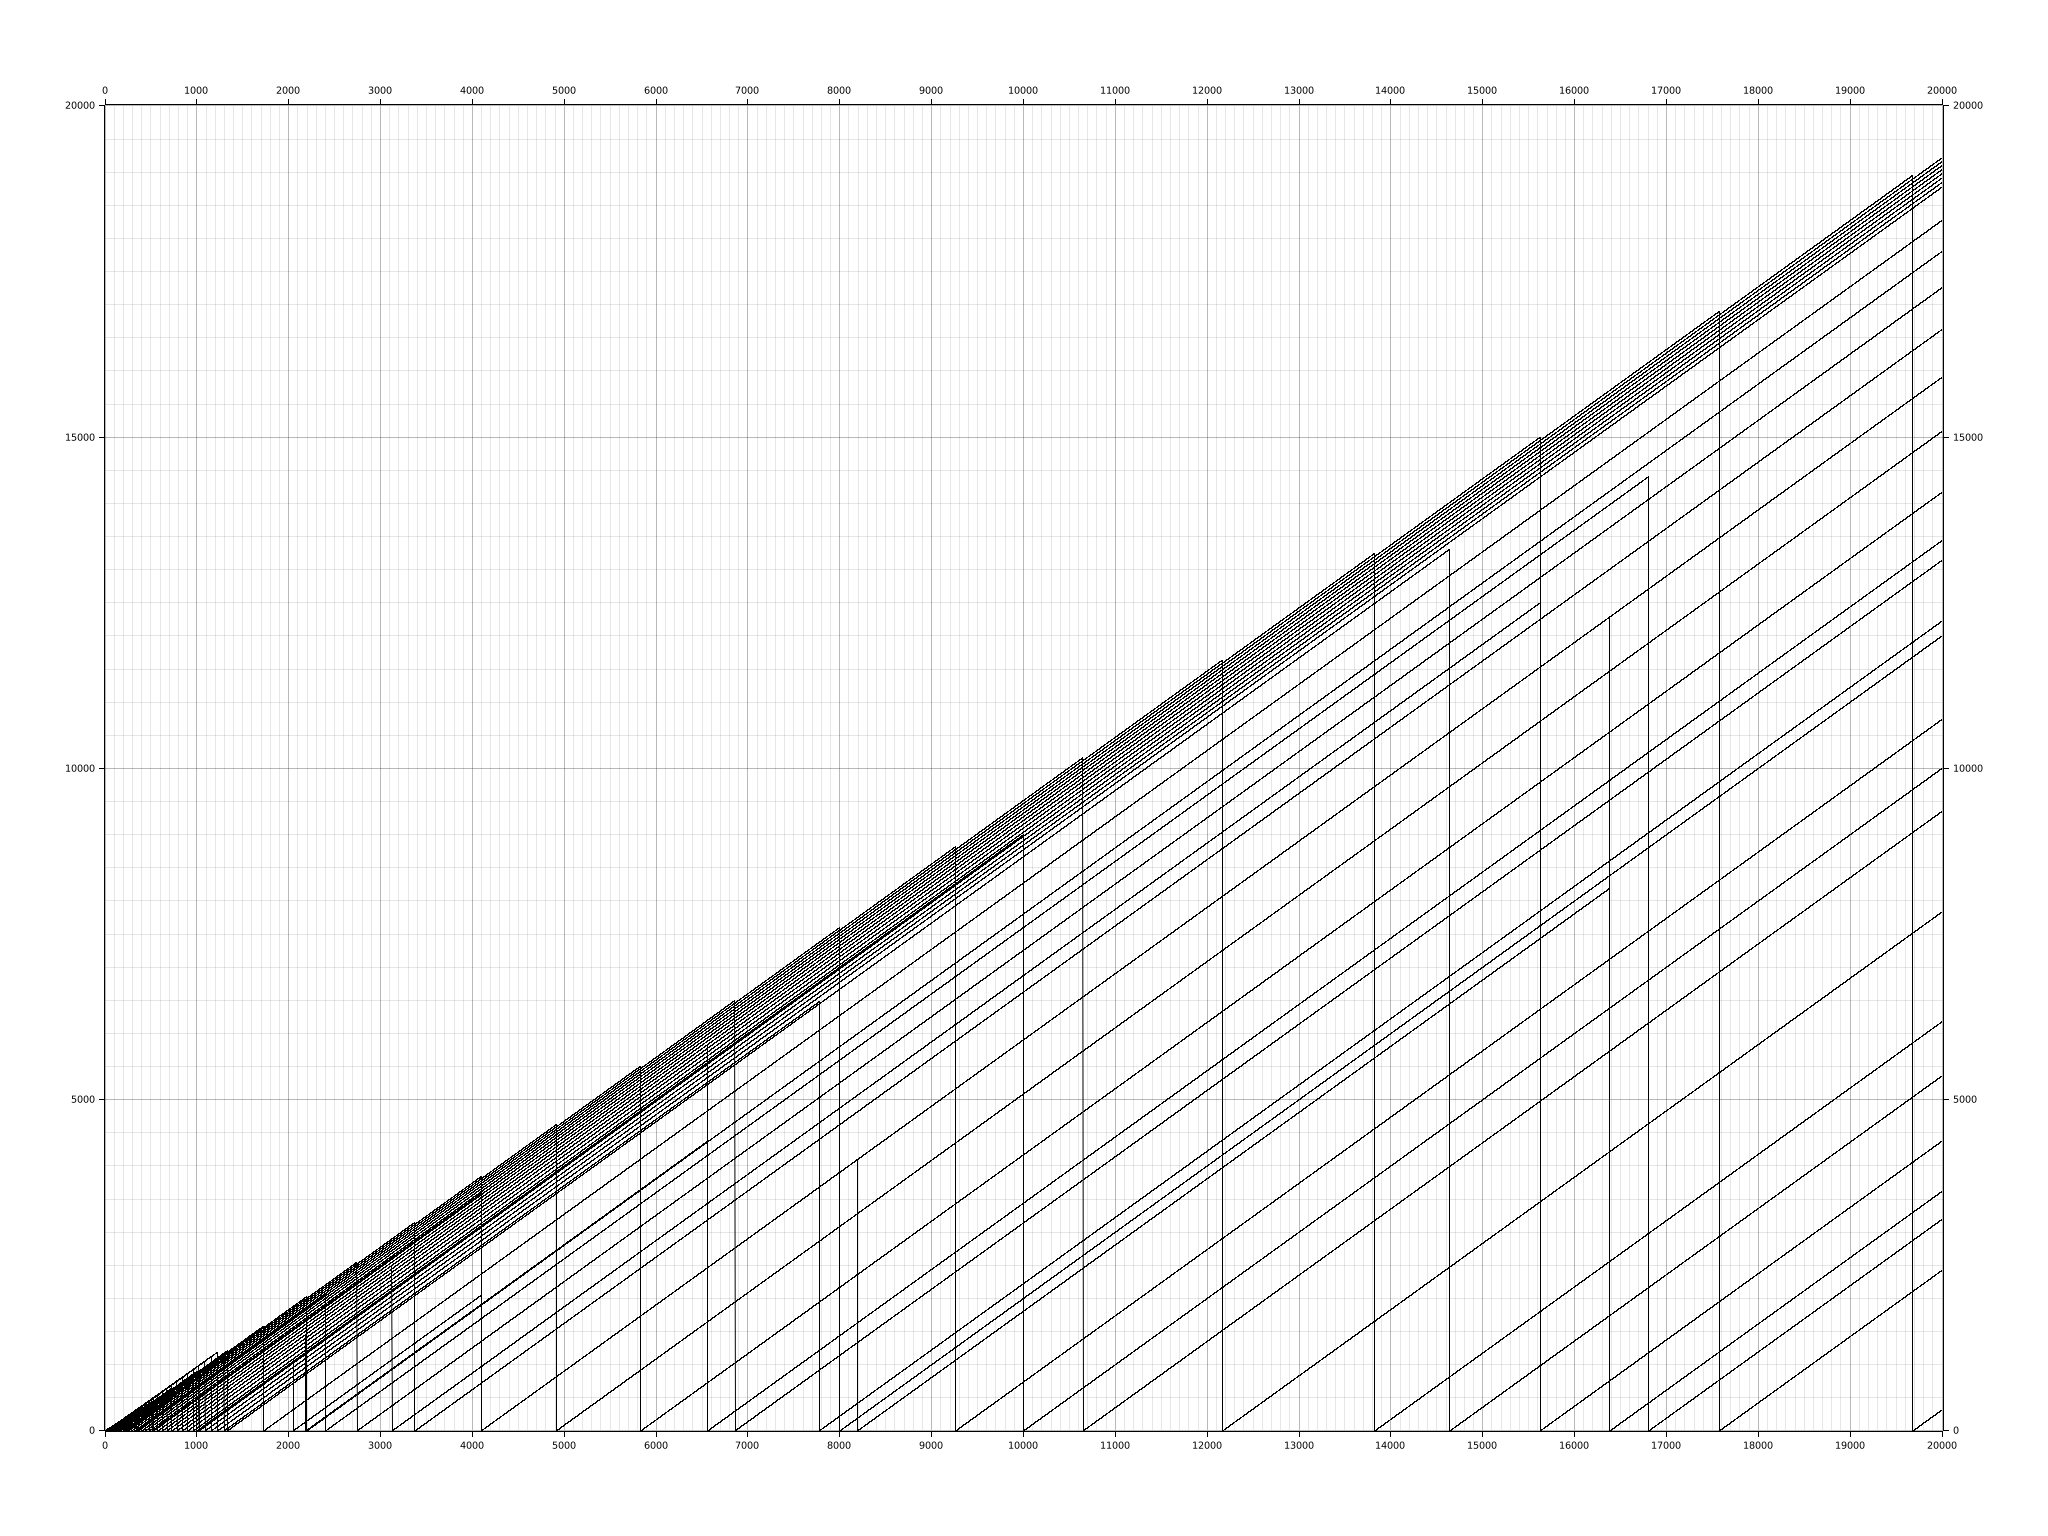
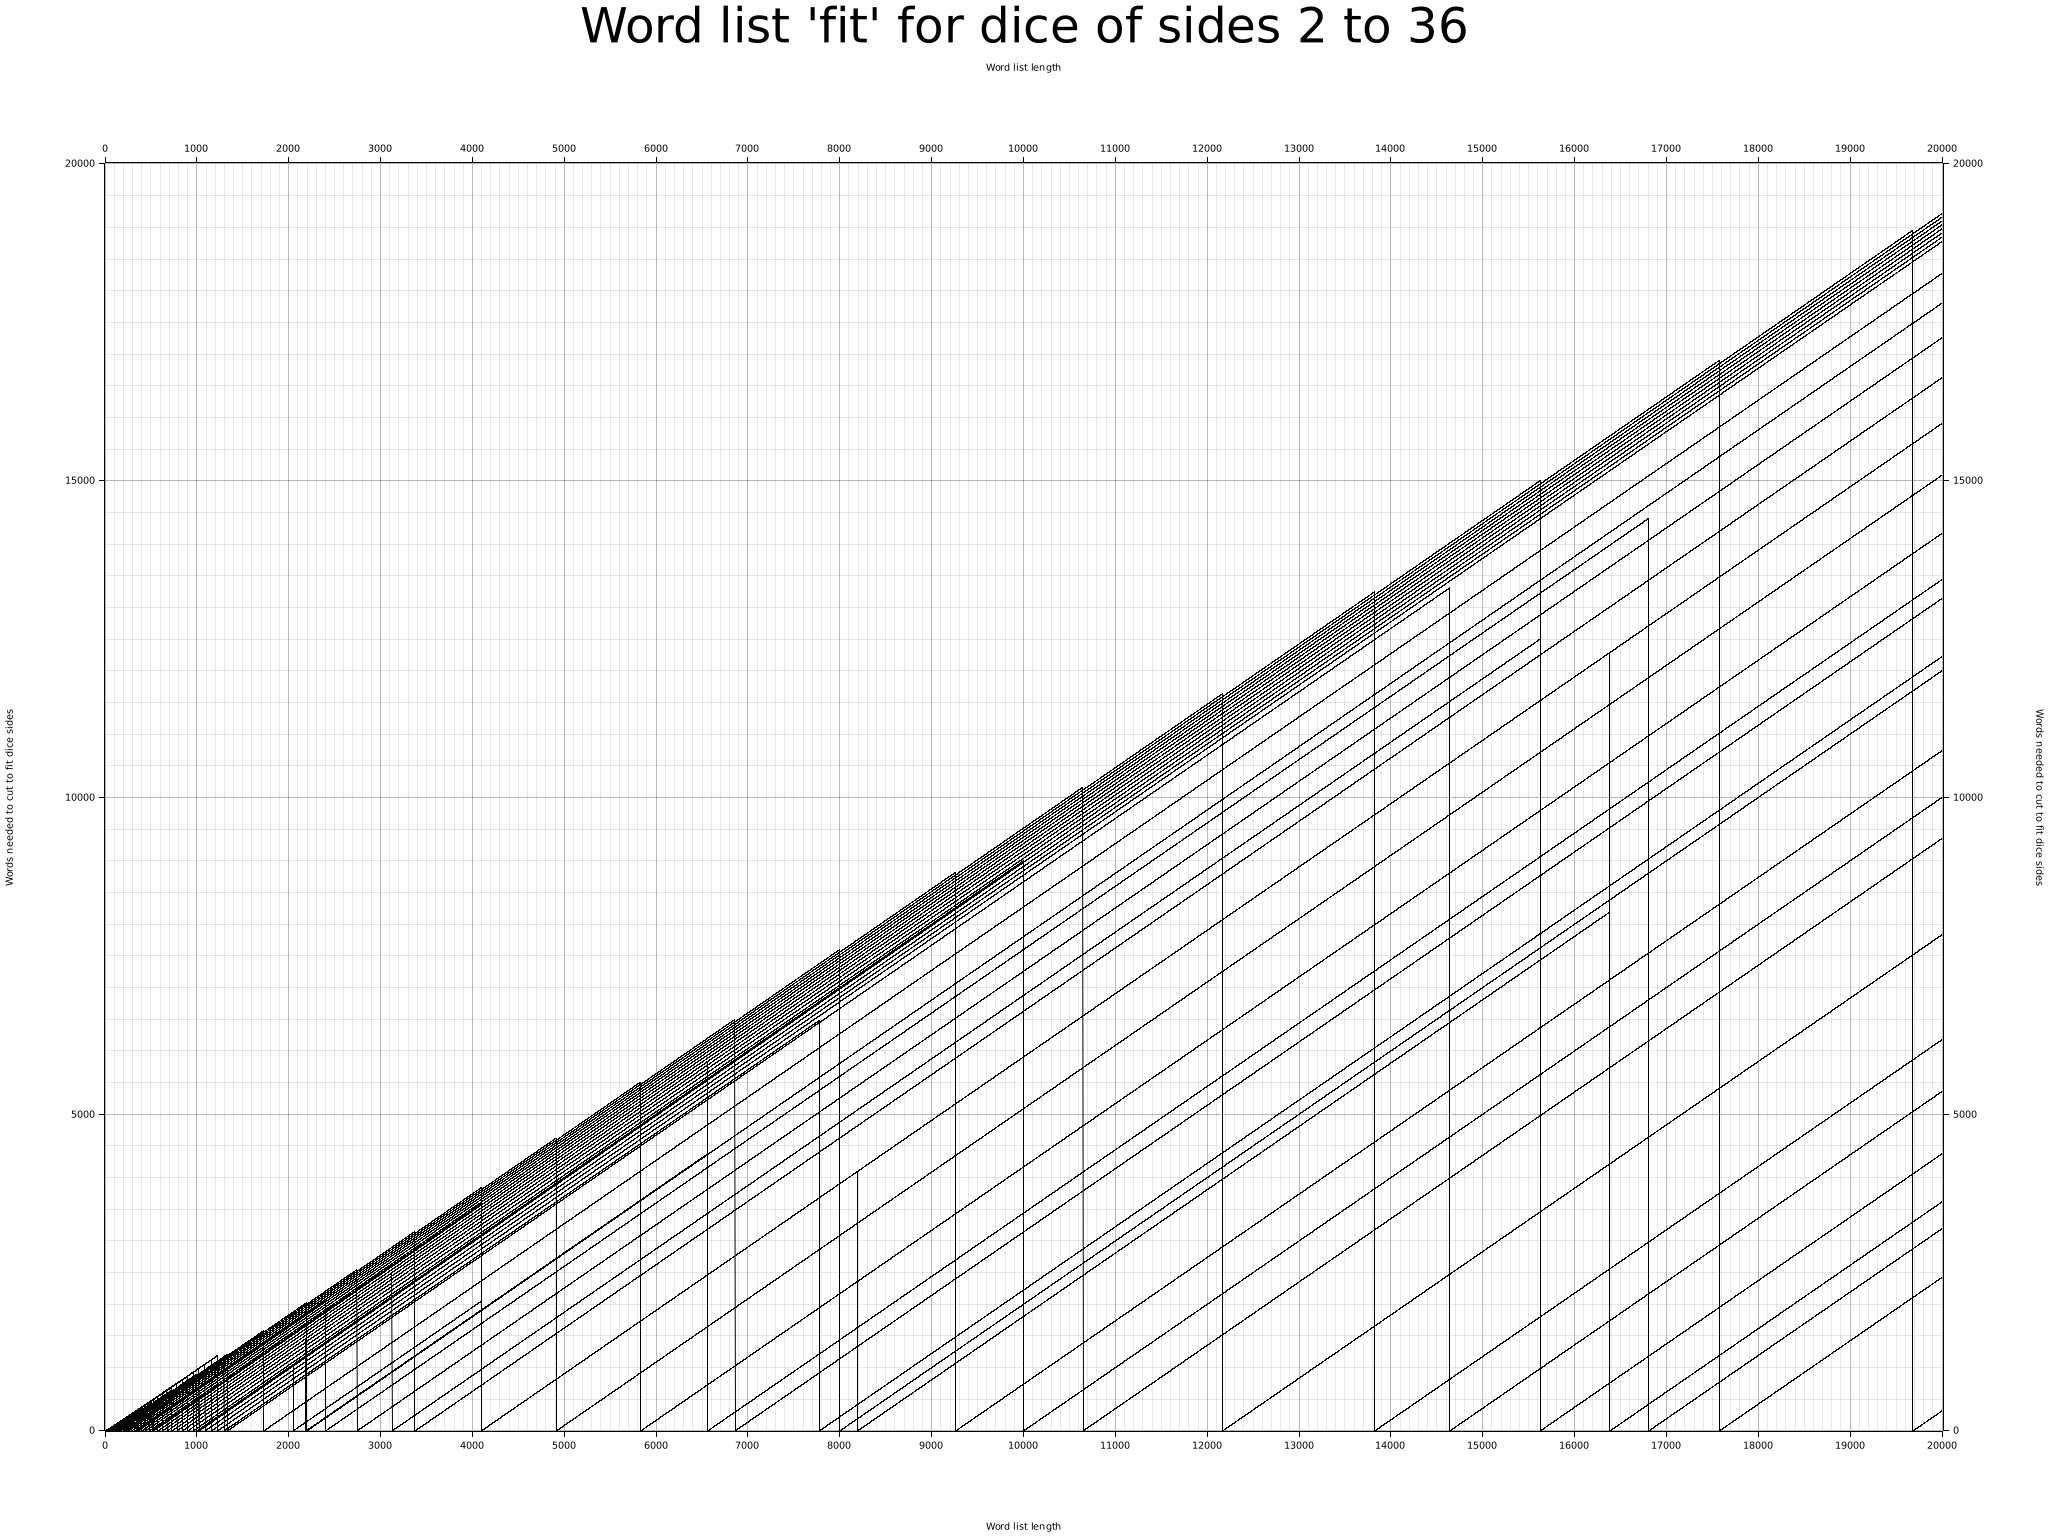
adds some basic, if small, labels to charts

diff --git a/src/main.rs b/src/main.rs
@@ -104,6 +104,8 @@ fn make_plot(sides: Option<i32>) {
             .y_labels(10)
             .x_label_formatter(&|v| format!("{:.1}", v))
             .y_label_formatter(&|v| format!("{:.1}", v))
+            .x_desc("Word list length")
+            .y_desc("Words needed to cut to fit dice sides")
             .draw()
             .unwrap();
 
@@ -115,9 +117,16 @@ fn make_plot(sides: Option<i32>) {
             .unwrap()
             .label(sides.to_string());
     };
+
     let common_drawing_area =
         BitMapBackend::new("images/common_dice.png", (2048, 1536)).into_drawing_area();
     common_drawing_area.fill(&WHITE).unwrap();
+    let common_drawing_area = common_drawing_area
+        .titled(
+            "Word list 'fit' for 6-, 8-, and 12-sides dice",
+            ("sans-serif", 60),
+        )
+        .unwrap();
 
     let mut common_chart = ChartBuilder::on(&common_drawing_area)
         .margin(5)
@@ -130,6 +139,8 @@ fn make_plot(sides: Option<i32>) {
         .y_labels(10)
         .x_label_formatter(&|v| format!("{:.1}", v))
         .y_label_formatter(&|v| format!("{:.1}", v))
+        .x_desc("Word list length")
+        .y_desc("Words needed to cut to fit dice sides")
         .draw()
         .unwrap();
 
@@ -139,24 +150,43 @@ fn make_plot(sides: Option<i32>) {
             &RED,
         ))
         .unwrap()
-        .label("6");
+        .label("6-sided")
+        .legend(|(x, y)| PathElement::new(vec![(x, y), (x + 20, y)], &RED));
 
     common_chart
         .draw_series(LineSeries::new(
             (5..20000).map(|x| (x, get_loss(8, x))),
             &BLUE,
         ))
-        .unwrap();
+        .unwrap()
+        .label("8-sided")
+        .legend(|(x, y)| PathElement::new(vec![(x, y), (x + 20, y)], &BLUE));
+
     common_chart
         .draw_series(LineSeries::new(
             (5..20000).map(|x| (x, get_loss(12, x))),
             &GREEN,
         ))
+        .unwrap()
+        .label("12-sided")
+        .legend(|(x, y)| PathElement::new(vec![(x, y), (x + 20, y)], &GREEN));
+
+    common_chart
+        .configure_series_labels()
+        .background_style(&RGBColor(128, 128, 128))
+        .draw()
         .unwrap();
 
     let all_dice_drawing_area =
         BitMapBackend::new("images/all_dice.png", (2048, 1536)).into_drawing_area();
     all_dice_drawing_area.fill(&WHITE).unwrap();
+
+    let all_dice_drawing_area = all_dice_drawing_area
+        .titled(
+            "Word list 'fit' for dice of sides 2 to 36",
+            ("sans-serif", 60),
+        )
+        .unwrap();
 
     let mut all_chart = ChartBuilder::on(&all_dice_drawing_area)
         .margin(5)
@@ -170,6 +200,8 @@ fn make_plot(sides: Option<i32>) {
         .y_labels(10)
         .x_label_formatter(&|v| format!("{:.1}", v))
         .y_label_formatter(&|v| format!("{:.1}", v))
+        .x_desc("Word list length")
+        .y_desc("Words needed to cut to fit dice sides")
         .draw()
         .unwrap();
     for sides in 2..36 {
